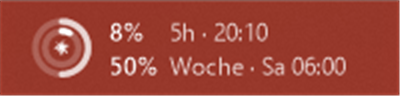
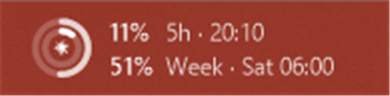
English screenshots, language and demo-email settings
- settings.json: "Language" (auto/en/de) and "DemoEmails" (placeholder addresses)
- Dates follow the UI language ("Sat" vs "Sa")
- README: English screenshots incl. right-click menu, advanced settings section

diff --git a/Strings.cs b/Strings.cs
@@ -5,7 +5,16 @@ namespace ClaudeUsageWidget;
 /// <summary>UI texts – German if the Windows display language is German, English otherwise.</summary>
 static class L
 {
-    static readonly bool De = CultureInfo.CurrentUICulture.TwoLetterISOLanguageName == "de";
+    // "Language" in settings.json can force "de" / "en"; default follows the Windows display language
+    static readonly bool De = TaskbarSettings.Load().Language switch
+    {
+        "de" => true,
+        "en" => false,
+        _ => CultureInfo.CurrentUICulture.TwoLetterISOLanguageName == "de",
+    };
+
+    /// <summary>Culture for dates/times so they match the UI language (e.g. "Sat" vs "Sa").</summary>
+    public static CultureInfo Culture => De ? CultureInfo.GetCultureInfo("de-DE") : CultureInfo.GetCultureInfo("en-US");
     static string T(string de, string en) => De ? de : en;
 
     // taskbar
@@ -57,7 +66,7 @@ static class L
         var today = DateTime.Today;
         string day = l.Date == today ? T("heute", "today")
                    : l.Date == today.AddDays(1) ? T("morgen", "tomorrow")
-                   : l.ToString(De ? "ddd, d. MMM" : "ddd, MMM d");
+                   : l.ToString(De ? "ddd, d. MMM" : "ddd, MMM d", Culture);
         return T($"Reset {day} um {l:HH:mm}", $"Resets {day} at {l:HH:mm}");
     }
 

diff --git a/Accounts.cs b/Accounts.cs
@@ -39,11 +39,17 @@ static class Accounts
         try { dirs.AddRange(Directory.GetDirectories(Home, ".claude*")); } catch { }
         if (cfg.ExtraDirs != null) dirs.AddRange(cfg.ExtraDirs);
 
-        return dirs.Select(Normalize)
+        var found = dirs.Select(Normalize)
             .Distinct(StringComparer.OrdinalIgnoreCase)
             .Where(HasLogin)
             .Select(d => new Account(d, LabelFor(d)))
             .ToList();
+        if (cfg.DemoEmails) // placeholder addresses for screenshots
+            found = found.Select((a, i) => a with
+            {
+                Label = i switch { 0 => "you@example.com", 1 => "work@example.com", _ => $"account{i + 1}@example.com" },
+            }).ToList();
+        return found;
     }
 
     /// <summary>The logins the user ticked in the right-click menu (default: the default login).</summary>

diff --git a/Program.cs b/Program.cs
@@ -188,6 +188,10 @@ record TaskbarSettings
     public List<string>? Accounts { get; init; }
     /// <summary>Account folders added via "Add account…" (others are found automatically).</summary>
     public List<string>? ExtraDirs { get; init; }
+    /// <summary>UI language: "auto" (Windows display language) | "de" | "en". Not in the dialog (yet).</summary>
+    public string Language { get; init; } = "auto";
+    /// <summary>Show example.com addresses instead of real account emails (for screenshots / streaming).</summary>
+    public bool DemoEmails { get; init; } = false;
 
     static string FilePath => Path.Combine(
         Environment.GetFolderPath(Environment.SpecialFolder.LocalApplicationData), "ClaudeUsageWidget", "settings.json");

diff --git a/TaskbarWidget.cs b/TaskbarWidget.cs
@@ -96,7 +96,7 @@ sealed class TaskbarWidget : NativeWindow, IDisposable
     public static string FormatReset(DateTimeOffset r)
     {
         var local = r.ToLocalTime().AddSeconds(30); // API sends e.g. 04:59:59 → show 05:00
-        return (local - DateTimeOffset.Now).TotalHours < 24 ? local.ToString("HH:mm") : local.ToString("ddd HH:mm");
+        return (local - DateTimeOffset.Now).TotalHours < 24 ? local.ToString("HH:mm") : local.ToString("ddd HH:mm", L.Culture);
     }
 
     // ---------------------------------------------------------------- settings / text content

diff --git a/README.md b/README.md
@@ -55,11 +55,23 @@ claude
 
 - The widget finds these logins by itself: `.claude`, `CLAUDE_CONFIG_DIR` and every `%USERPROFILE%\.claude*` folder that contains a login.
 - **Right‑click** the taskbar display: all logins are listed by their email – **tick the ones you want to see**. At least one stays ticked.
+
+  ![Right-click menu](docs/menu.png)
 - **Add account…** lets you pick a login folder somewhere else.
 - Each account gets its own block in the taskbar (separated by a thin line), its own section in the tooltip and in the widget. The logo is shown once.
 - Every account is fetched and backs off on its own, so one failing login doesn't hold up the others. A login that fails shows **⚠ Error** in the taskbar; hover for the reason.
 
 > The Claude desktop app keeps its login separately and can't be added – sign in to Claude Code with that account too.
+
+## Advanced settings
+
+Everything you can change in *Customize widget* is stored in `settings.json` in the app's local data folder
+(`%LOCALAPPDATA%\Packages\ClaudeUsageWidget_…\LocalCache\Local\ClaudeUsageWidget\`). Two extra keys exist there only:
+
+| Key | Values | Effect |
+|---|---|---|
+| `Language` | `"auto"` (default), `"en"`, `"de"` | UI language; `auto` follows the Windows display language. Takes effect after restarting the app. |
+| `DemoEmails` | `true` / `false` | Shows `you@example.com`, `work@example.com`, … instead of the real account emails – handy for screenshots or streaming. |
 
 ## How it works
 
